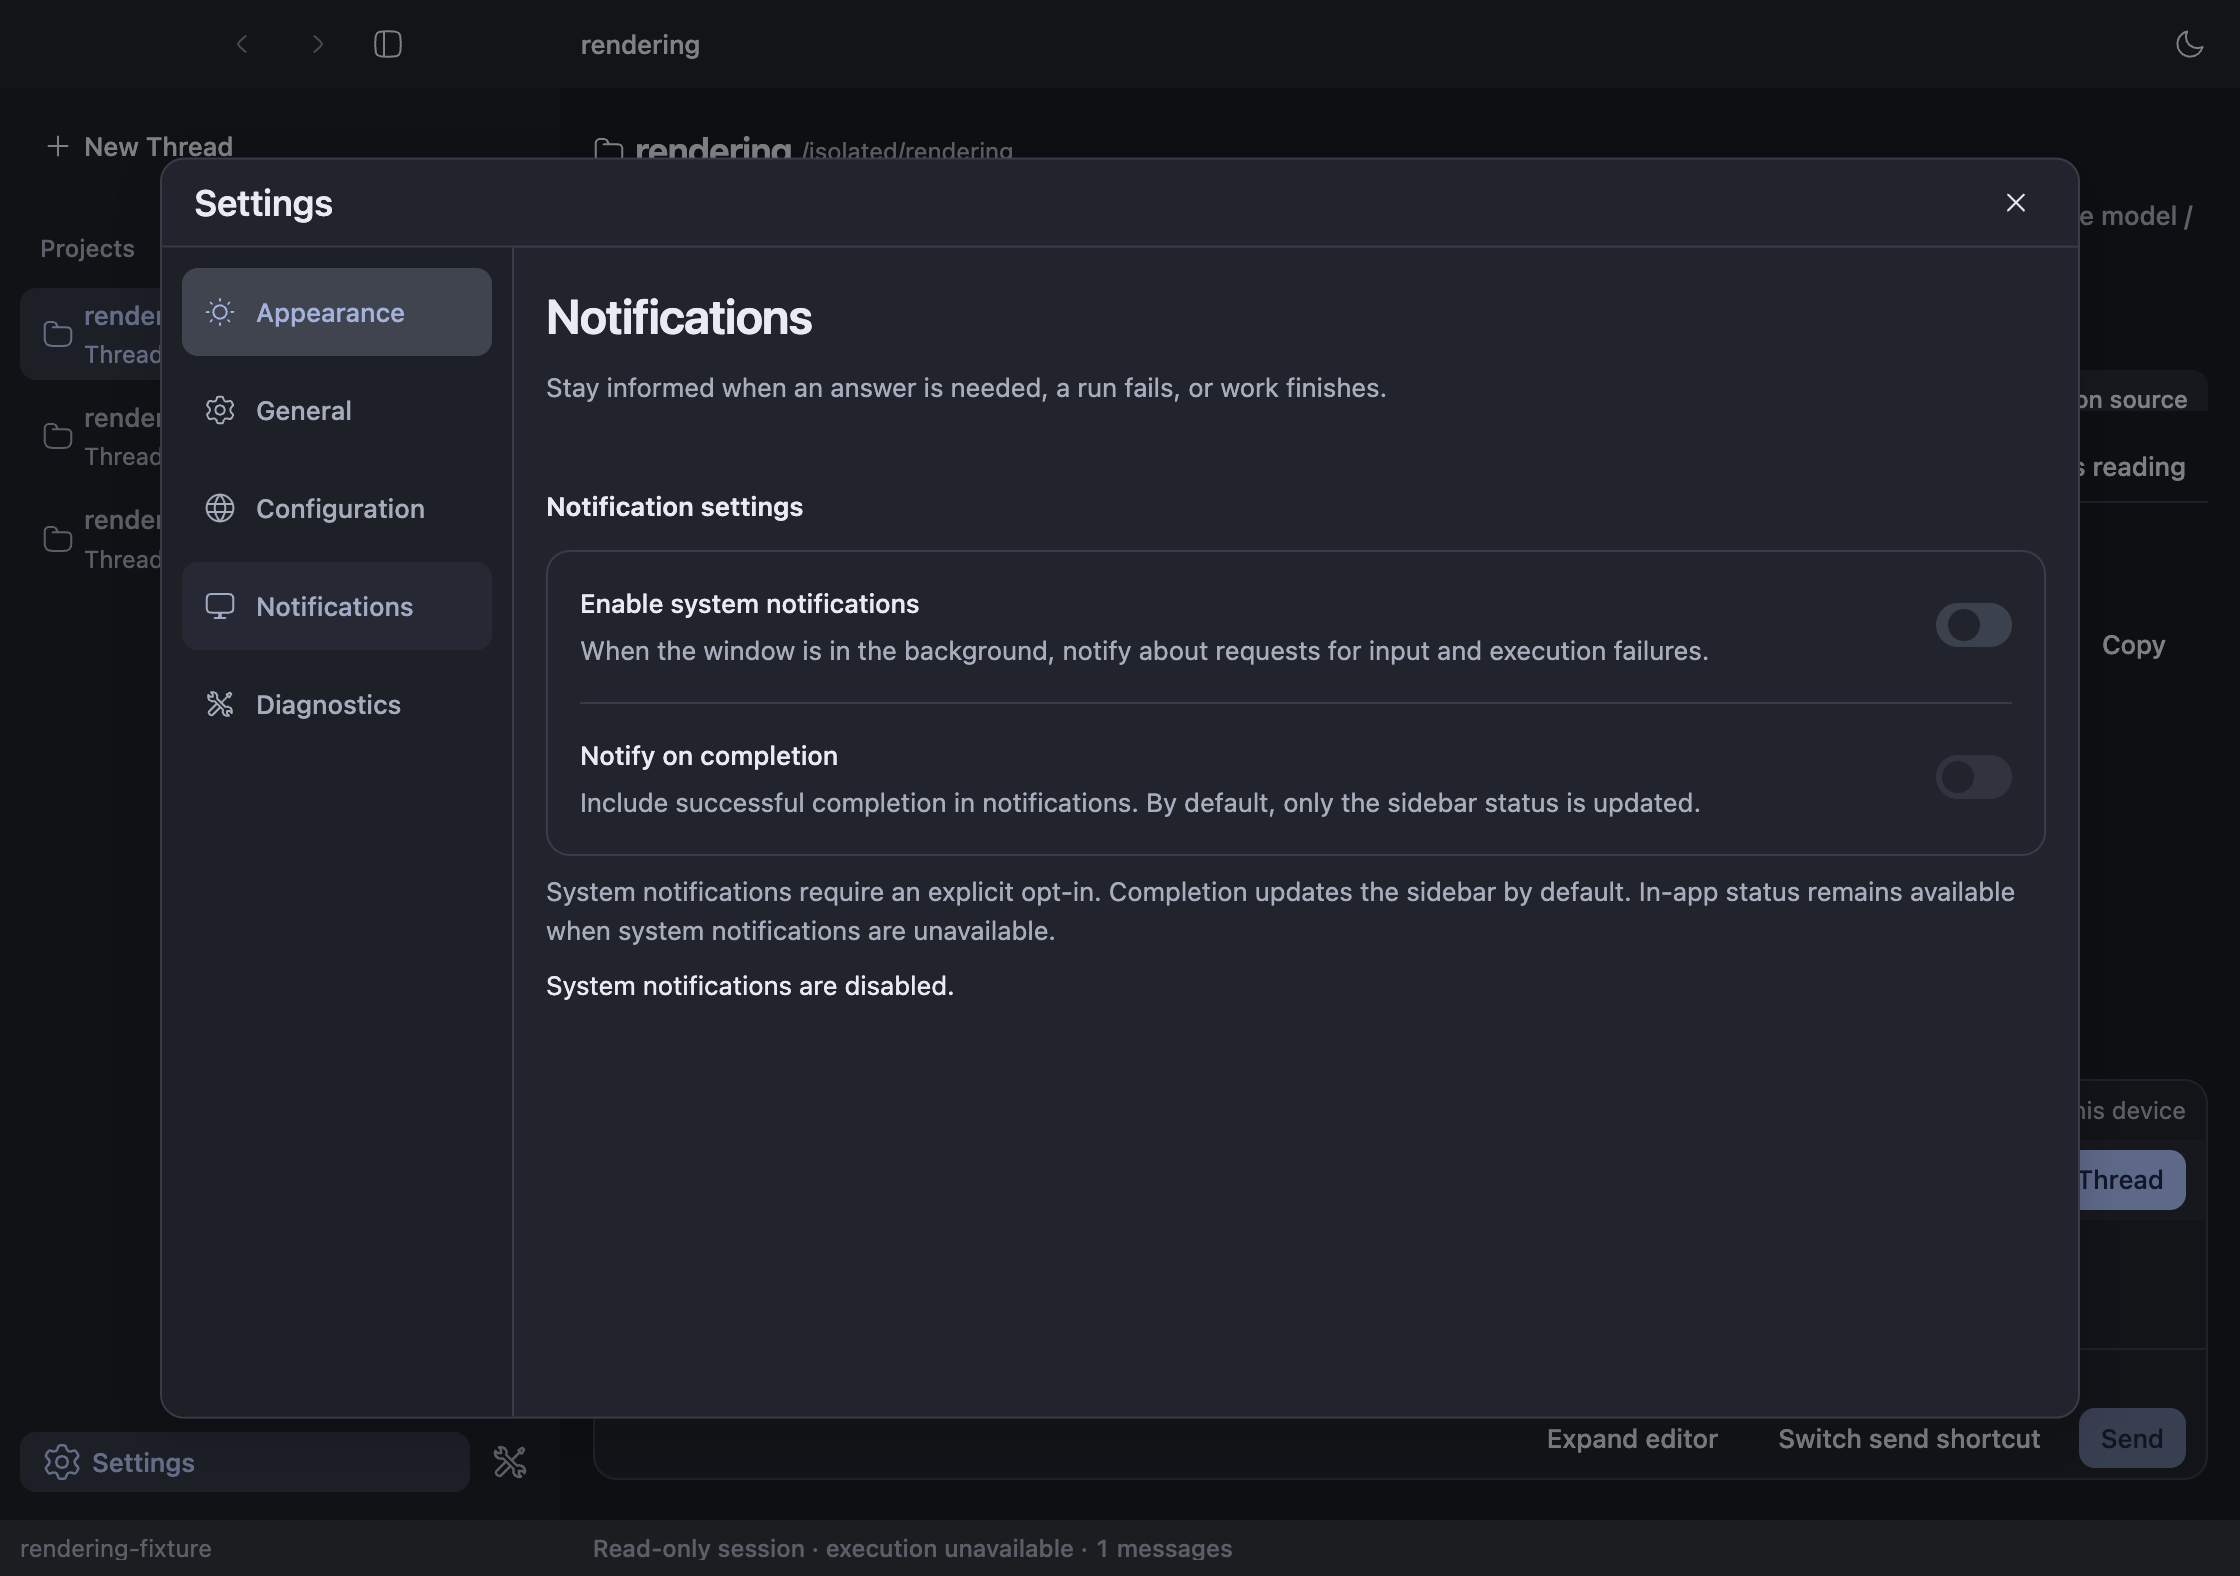
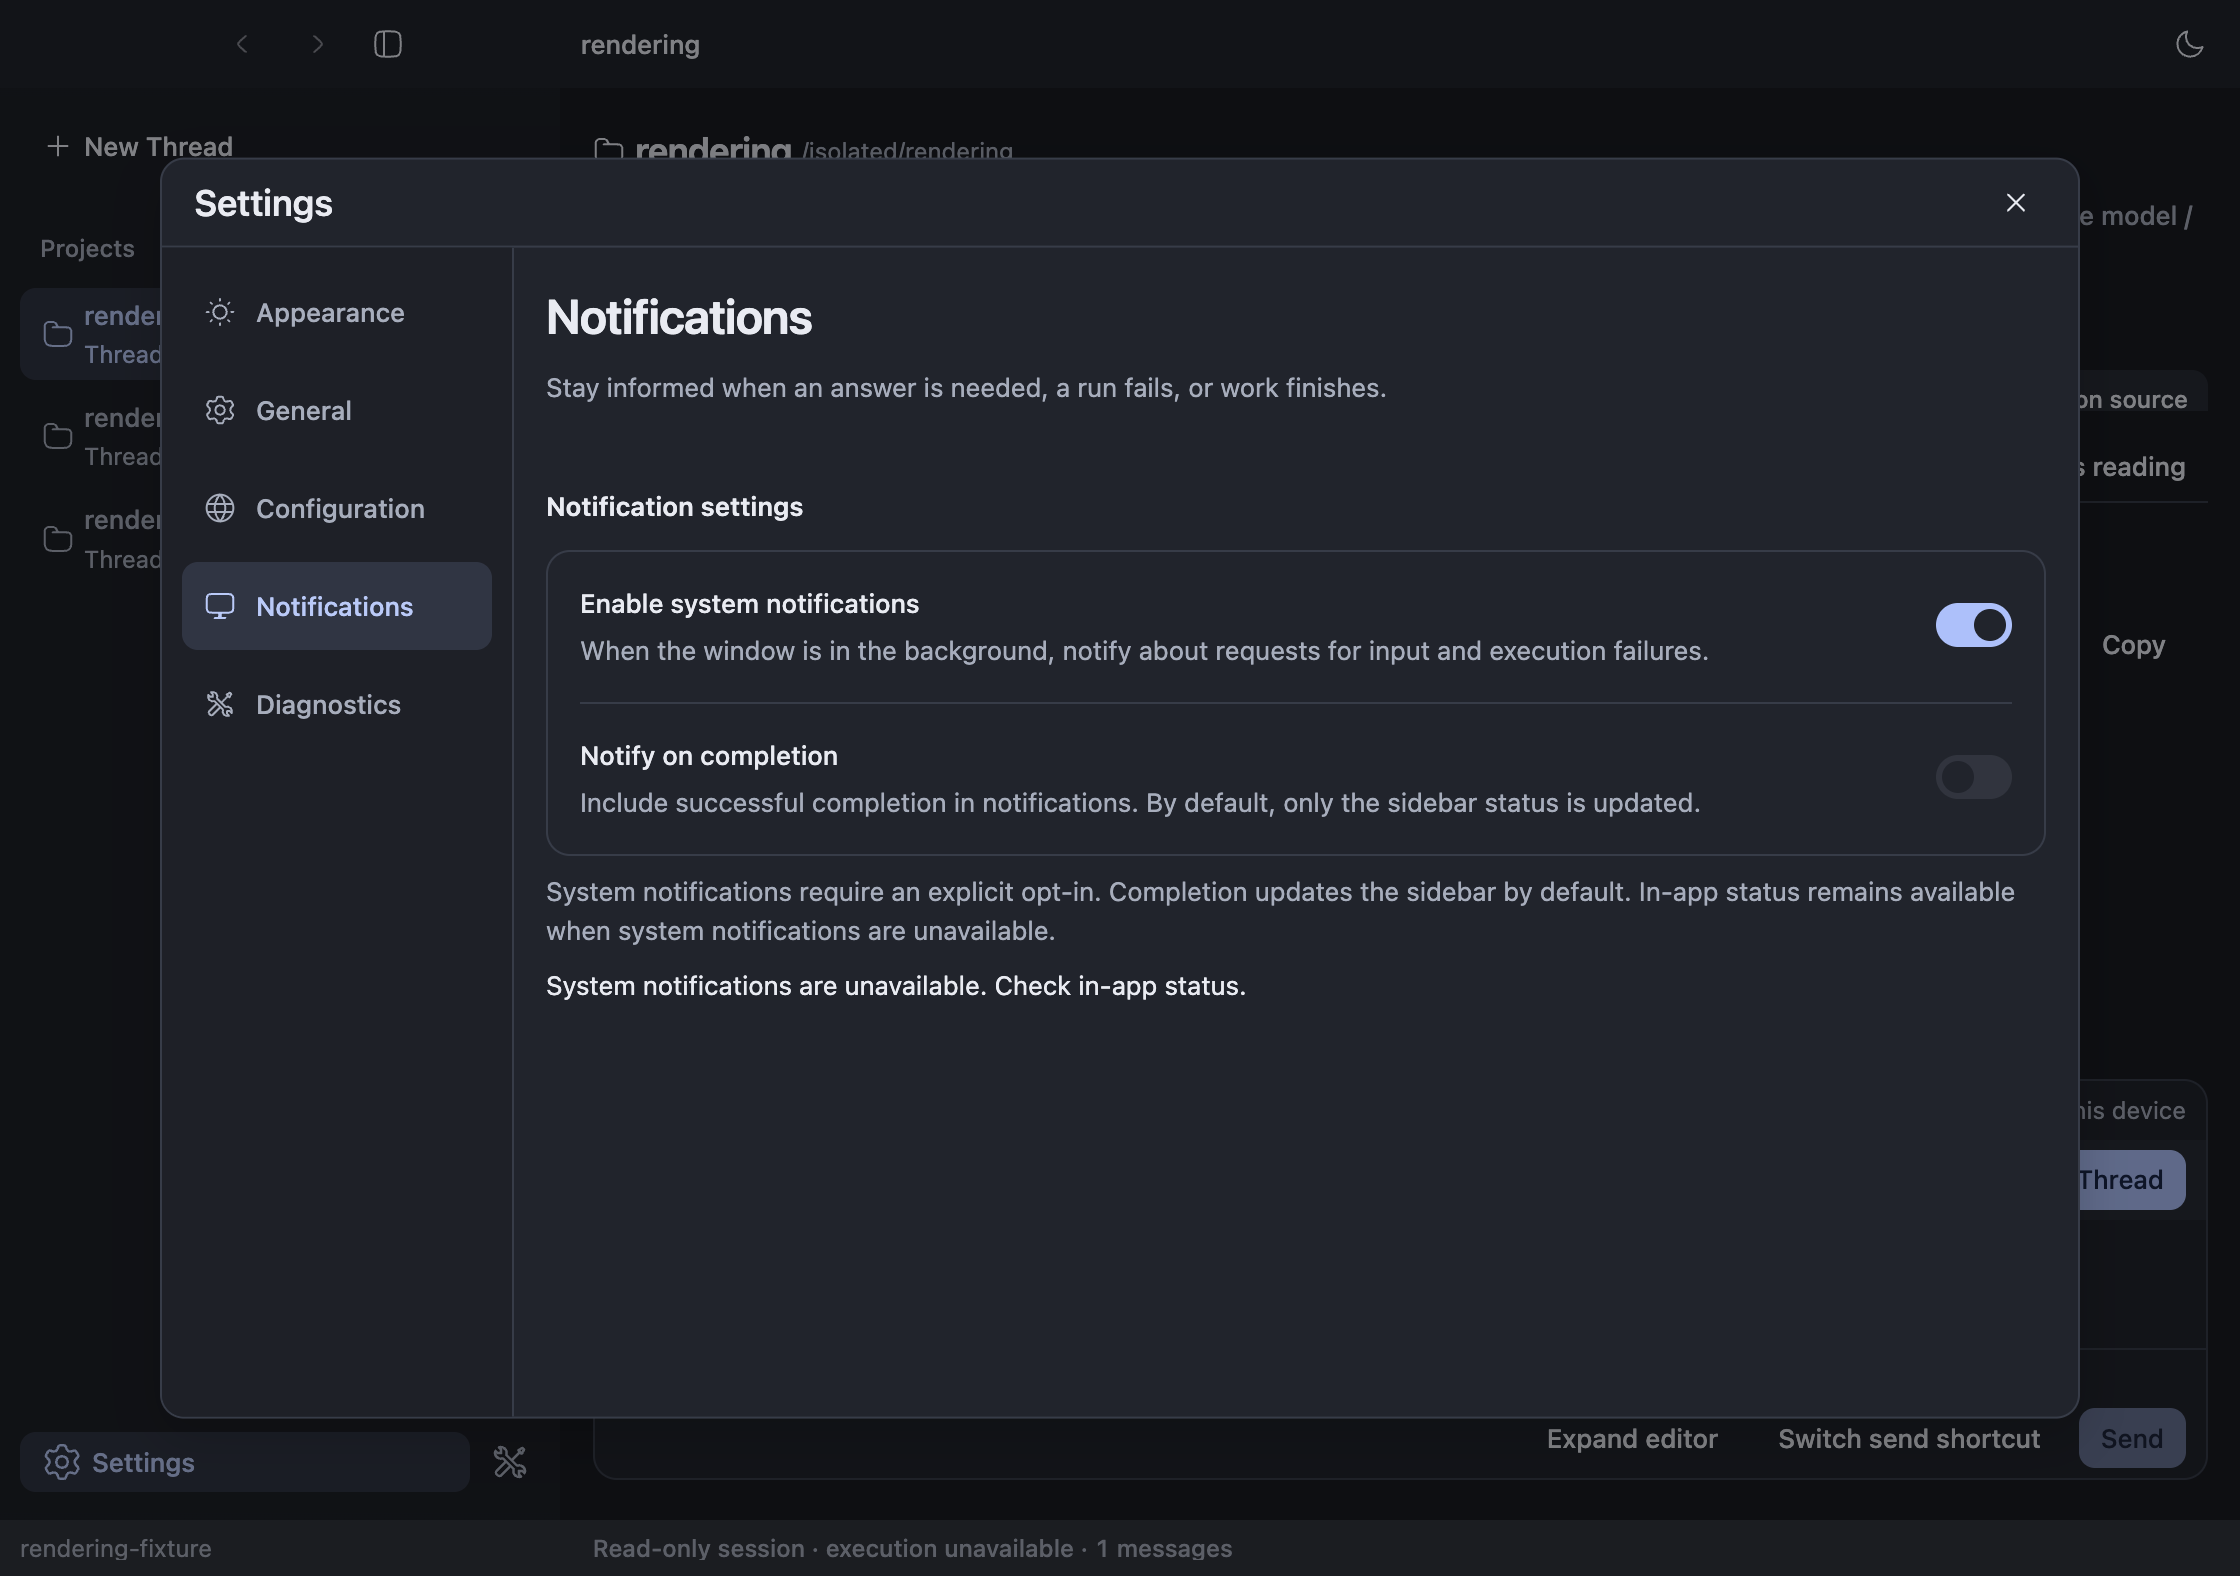
test: capture settings after control transitions settle

diff --git a/validation/m2/rendering.tsx b/validation/m2/rendering.tsx
@@ -83,7 +83,11 @@ const attention: AttentionBridge = {
           command.kind === "opened" ? null : attentionSnapshot.openRequest,
       };
     if (command.kind === "preferences")
-      attentionSnapshot = { ...attentionSnapshot, preferences: command.value };
+      attentionSnapshot = {
+        ...attentionSnapshot,
+        preferences: command.value,
+        system: command.value.system ? "unavailable" : "disabled",
+      };
     return {
       kind: "snapshot",
       traceId: command.traceId,
